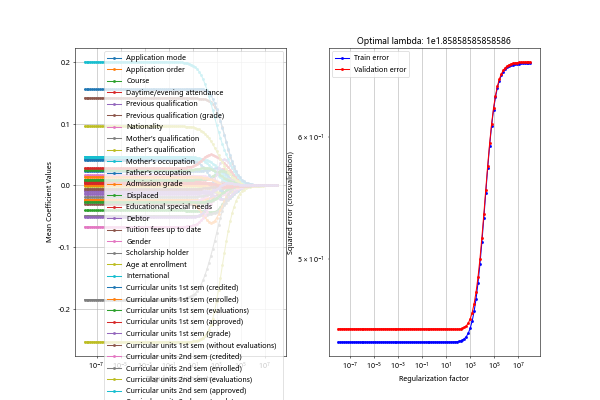
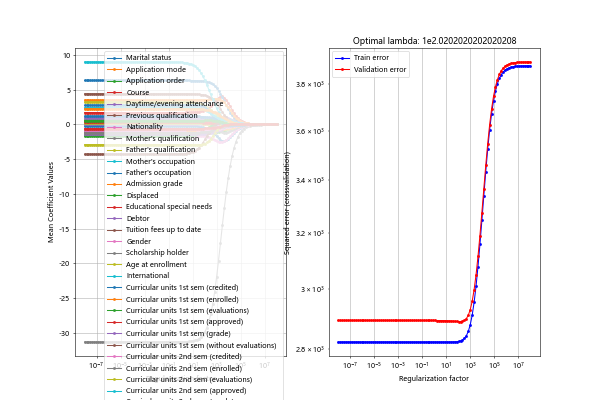
updated

diff --git a/regression_a.py b/regression_a.py
@@ -38,7 +38,7 @@ target_to_num = [class_name_mapping[className] for className in target] # drop o
 one_hot_encoded = LabelBinarizer().fit_transform(target_to_num)
 
 # revise partial data according to appendix of reference
-for col_index in [0,1,3,5,6,7,8,9,10,11,12]:
+for col_index in [0,1,3,5,7,8,9,10,11]:
         current_column = data_matrix[:, col_index]
         unique_values = np.unique(current_column)
         unique_values.sort()
@@ -46,8 +46,9 @@ for col_index in [0,1,3,5,6,7,8,9,10,11,12]:
         data_matrix[:, col_index] = np.vectorize(value_to_rank.get)(current_column)
 
 X = data_matrix
-y = np.array(target_to_num)
-
+y = X[:, 6]
+X = np.delete(X, 6, axis=1)
+attributeNames.remove('Previous qualification (grade)')
 ################
 # regression_a #
 ################
@@ -67,7 +68,7 @@ semilogx(lambdas,mean_w_vs_lambda.T[:,1:],'.-') # Don't plot the bias term
 xlabel('Regularization factor')
 ylabel('Mean Coefficient Values')
 grid()
-legend(attributeNames[1:], loc='best')
+legend(attributeNames[:], loc='best')
 
 subplot(1,2,2)
 title('Optimal lambda: 1e{0}'.format(np.log10(opt_lambda)))

diff --git a/regression_b.py b/regression_b.py
@@ -178,7 +178,7 @@ for train_index, test_index in CV.split(X,y):
 ###########################
 #%%
 # show ANN vs Linear Regression
-lower_bounds_al = [row[1] for row in CI_al_r]
+lower_bounds_al = CI_al_r[:,0]
 upper_bounds_al = [row[1] for row in CI_al_r]
 column_means_al = [sum(row) / len(row) for row in CI_al_r]
 center_line1_al = np.mean(np.concatenate([lower_bounds_al, upper_bounds_al]))
